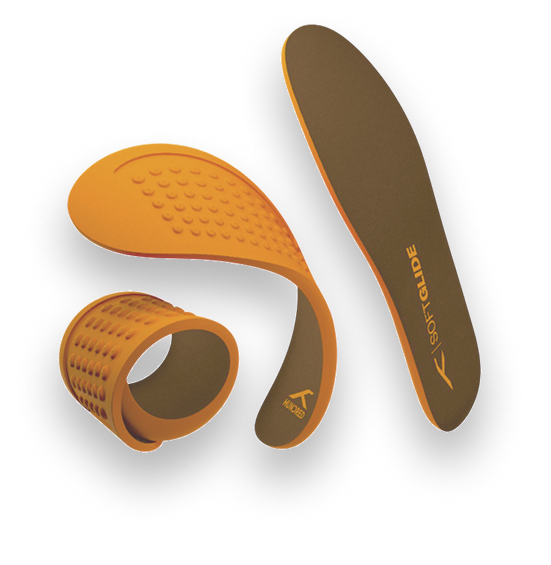
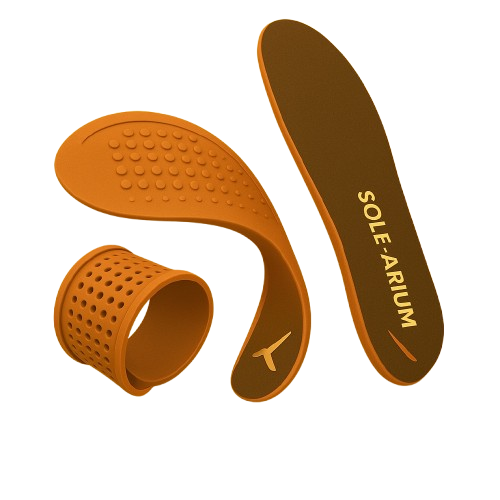
fixed some anomalies

diff --git a/src/components/Hero/Hero.jsx b/src/components/Hero/Hero.jsx
@@ -6,9 +6,13 @@ const Hero = () => {
         <div className="hero diagonal-split">
         <div className="hero-top">
         <div className="hero-text">
-            <h1 className="hero-title">Welcome to Sole-Arium</h1>
-            <p className="hero-description">In India, Diabetes causes 3.5 minutes of limb loss, affecting over 80 million people. Over 17.5% of elderly suffer from diabetes, like sarcopenia and with osteoporosis affecting 60 million people, increasing the risk of disability and foot ulcers.
-At Sole - Arium , we focus on transforming people the way which manages diabetes with their health. Our aim is to help severe outcomes and support individuals. With Sole - arium it is designed to be affordable and ensuring proactive and life changing care . It  prevents complications,  supporting you to live a healthier, happier life .</p>
+            <h1 className="hero-title">From Pressure Maps, To Health Gaps</h1>
+            <p className="hero-description">Over 80 million Indians are living with diabetes, facing serious risks like foot ulcers, mobility loss, and even amputation. At Sole-Arium, we’re working to change that.
+
+Our smart, affordable insole solution detects early pressure changes, helping to prevent complications before they arise. Whether you’re managing diabetes or supporting someone who is, Sole-Arium keeps you moving with confidence.
+
+Stay protected. Stay independent. Stay one step ahead.
+</p>
             <button className="hero-button btn">See Demo</button>
         </div>
         <div className="hero-image">
@@ -17,22 +21,25 @@ At Sole - Arium , we focus on transforming people the way which manages diabetes
         </div>
         <div className="hero-bottom">
             <InfoCard
-                icon={<i className="fas fa-shoe-prints"></i>}
-                title="Comfort"
-                description="Many traditional treatments are not only expensive but it involves painful surgeries to trauma with dealing health issues. With Sole-arium , you can focus only on prevention which allow you to live with fullest with reducing risks and expenses , also embracing proactive and compassionate approach.
+                icon={<i className="fas fa-shield-halved"></i>}
+                title="Prevention"
+                description="Skip the surgeries. Dodge the costs.
+With Sole-Arium, prevention takes the lead. Our smart insole helps you stay ahead of complications—painlessly and affordably—so you can live life on your own terms.
 ."
                 className="info-card-comfort"
             />
             <InfoCard
-                icon={<i className="fas fa-star"></i>}
-                title="Quality"
-                description="Crafted with the finest materials for lasting durability."
+                icon={<i className="fas fa-user-secret"></i>}
+                title="Detection"
+                description="What you can’t see can hurt you.
+Sole-Arium bridges the silent gaps in diagnosis with real-time, remote monitoring. Detect early signs before they become serious—and step confidently into better health."
                 className="info-card-quality"
             />
             <InfoCard
-                icon={<i className="fas fa-dollar-sign"></i>}
-                title="Affordability"
-                description="Stylish footwear that won't break the bank."
+                icon={<i className="fas fa-user-check"></i>}
+                title="Empowerment"
+                description="Your health, always in hand.
+From foot pressure trends to instant alerts, our intuitive app keeps you connected and in control. Simple visuals. Smart insights. Doctor access—all at your fingertips."
                 className="info-card-affordability"
             />
         </div>

diff --git a/src/components/Footer/Footer.jsx b/src/components/Footer/Footer.jsx
@@ -7,7 +7,7 @@ const Footer = () => {
     <footer className="footer">
       <div className="footer-container">
         <div className="footer-section brand">
-          <h3>Solerium</h3>
+          <h3>Sole-arium</h3>
           <p>Elevating your everyday steps with comfort and style.</p>
           <div className="social-icons">
             <a href="#" className="social-icon"><i className="fab fa-facebook-f"></i></a>
@@ -50,7 +50,7 @@ const Footer = () => {
       </div>
 
       <div className="footer-bottom">
-        <p>&copy; {new Date().getFullYear()} Solerium. All rights reserved.</p>
+        <p>&copy; {new Date().getFullYear()} Sole-arium. All rights reserved.</p>
       </div>
     </footer>
   );

diff --git a/src/components/Hero/Hero.css b/src/components/Hero/Hero.css
@@ -21,15 +21,19 @@
     justify-content: space-between;
     gap: 20px;
     align-items: center;
+    margin: 50px;
+    width: 80%;
 }
 .hero-title {
     font-size: 3rem;
     font-weight: bold;
+    margin-bottom: 0;
     color: var(--text-color);
 }
 .hero-description {
-    font-size: 1.5rem;
+    font-size: 1rem;
     max-width: 50vw;
+    margin-top: 0;
     margin-right: 50px;
     color: var(--text-color);
 }

diff --git a/src/pages/Login.css b/src/pages/Login.css
@@ -8,7 +8,7 @@
     border-radius: 36px;
     display: flex;
     align-items: center;
-    padding: 48px 40px;
+    padding: 28px 40px;
     position: relative;
     min-height: 340px;
   }
@@ -20,7 +20,7 @@
   .logo {
     color: var(--secondary-color);
     font-weight: 700;
-    font-size: 18px;
+    font-size: 28px;
     letter-spacing: 0.5px;
     margin-bottom: 26px;
   }

diff --git a/src/components/InfoCard/InfoCard.css b/src/components/InfoCard/InfoCard.css
@@ -2,7 +2,7 @@
   display: flex;
   flex-direction: column;
   width: 300px;
-  height: 400px;
+  height: 200px;
   padding: 1.5rem;
   /* background-color: #ffffff; */
   border-radius: 8px;
@@ -23,7 +23,7 @@
   width: 48px;
   height: 48px;
   margin-bottom: 1rem;
-  color: #3a86ff;
+  color: var(--secondary-color);
   font-size: 24px;
 }
 

diff --git a/src/components/InfoCard/InfoCard.jsx b/src/components/InfoCard/InfoCard.jsx
@@ -4,7 +4,7 @@ import './InfoCard.css';
 const InfoCard = ({ icon, title, description, className }) => {
   return (
     <div className={`info-card ${className || ''}`}>
-      <div className="info-card-icon">
+      <div className="info-card-icon" >
         {icon}
       </div>
       <div className="info-card-content">

diff --git a/src/pages/Login.jsx b/src/pages/Login.jsx
@@ -6,7 +6,7 @@ const Login = () => {
     <div className="login-container">
       <div className="login-left">
         <div className="logo">
-          Sole-<span>arium</span>
+          Sole-arium
         </div>
         <div className="login-title">Login</div>
         <form>

diff --git a/src/index.css b/src/index.css
@@ -14,8 +14,10 @@ body {
   margin: 0;
   padding: 0;
   background-color: var(--primary-color);
-  
   min-width: 100vw;
   min-height: 100vh;
 
+}
+html{
+  overflow-x: hidden;
 }
